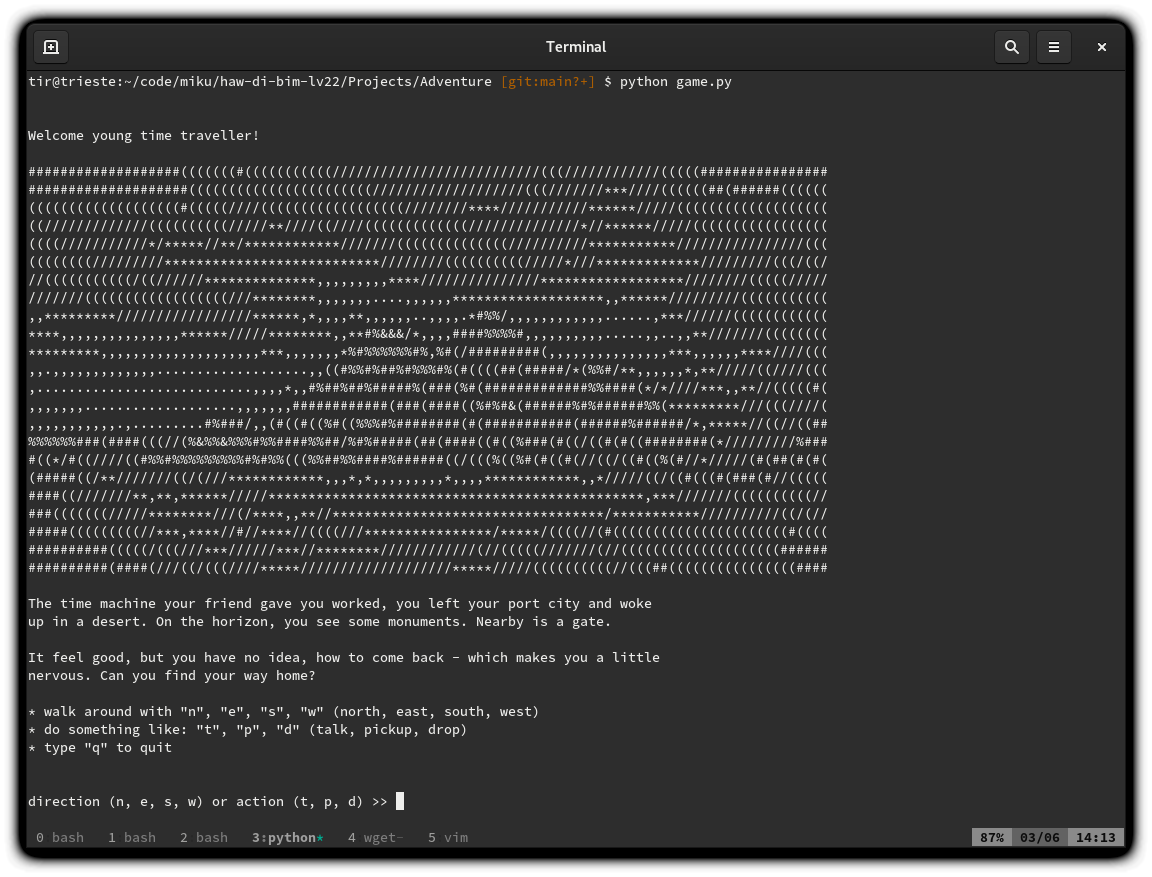
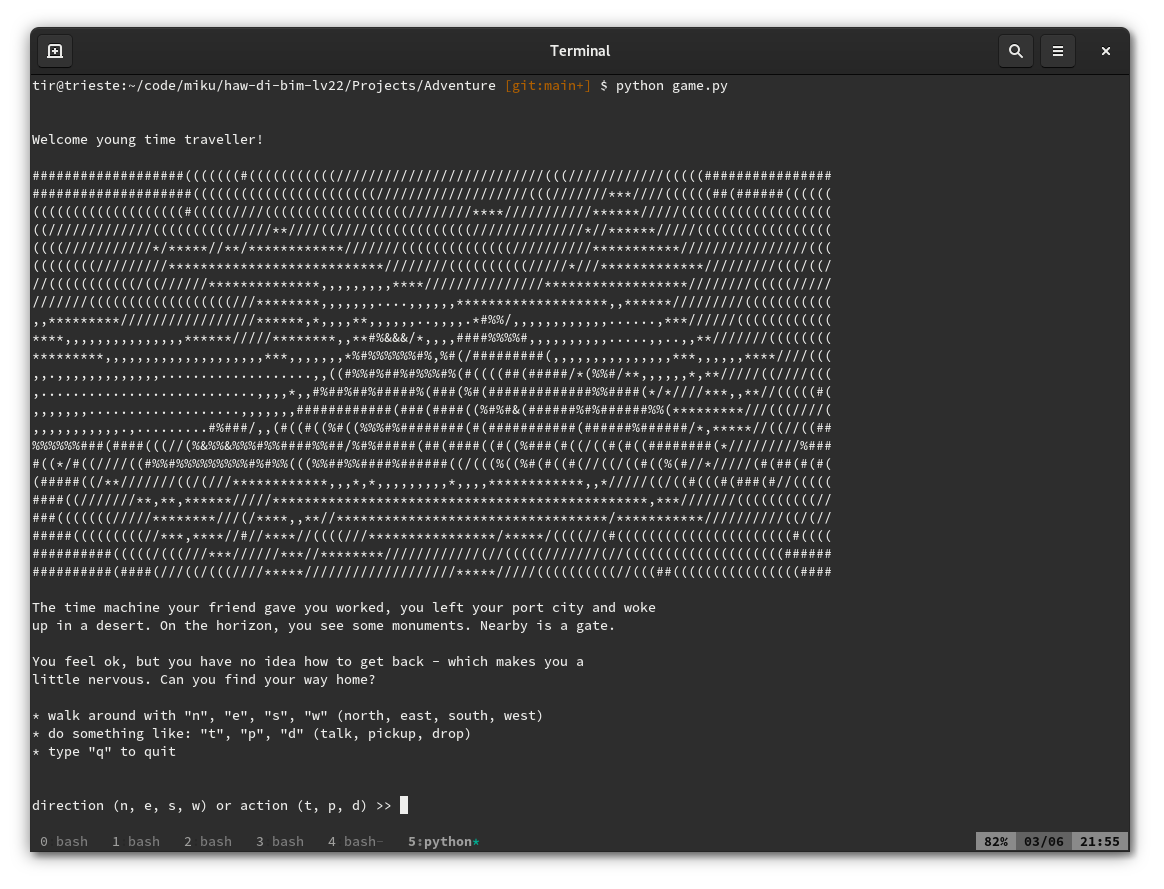
update screenie

Changed region(s): [[0.0, 0.0, 1.0, 1.0], [0.5312, 0.7389, 0.5625, 0.7697]]

diff --git a/Projects/Adventure/game.py b/Projects/Adventure/game.py
@@ -31,8 +31,8 @@ Welcome young time traveller!
 The time machine your friend gave you worked, you left your port city and woke
 up in a desert. On the horizon, you see some monuments. Nearby is a gate.
 
-It feel good, but you have no idea, how to come back - which makes you a little
-nervous. Can you find your way home?
+You feel ok, but you have no idea how to get back - which makes you a
+little nervous. Can you find your way home?
 
 * walk around with "n", "e", "s", "w" (north, east, south, west)
 * do something like: "t", "p", "d" (talk, pickup, drop)
